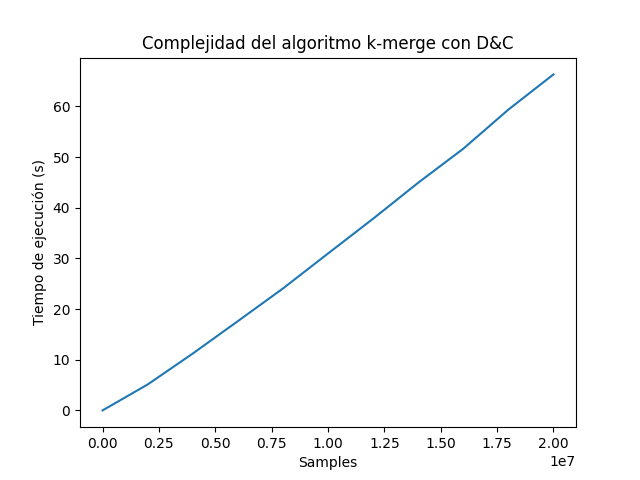
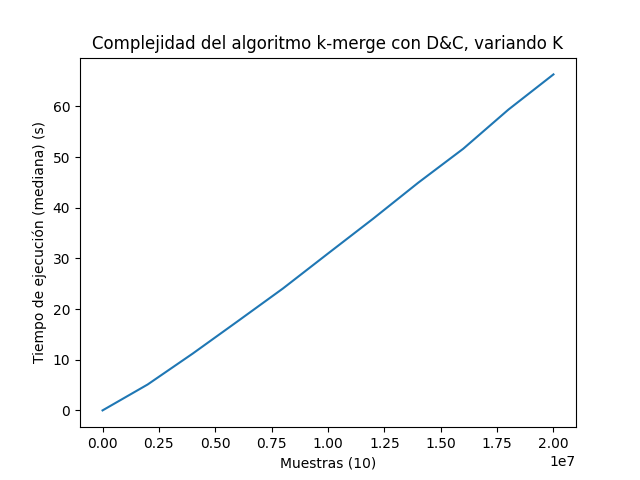
Improve the graphics and created config file

Changed region(s): [[0.1562, 0.0625, 0.875, 0.125], [0.0312, 0.25, 0.0938, 0.75], [0.4375, 0.9375, 0.5938, 1.0]]

diff --git a/simulator.py b/simulator.py
@@ -12,7 +12,7 @@ def generate_sample_array(K, h):
     Crea una matriz de ejemplo con K arreglos de h elementos aleatorios
     """
     arr = []
-    for _ in range(K): arr.append(sorted(rnd.sample(range(0, 10001), h)))
+    for _ in range(K): arr.append(sorted(rnd.sample(range(0, h+1), h)))
     return arr
 
 def execute_multiple_times(K, h, f, samples):
@@ -58,7 +58,7 @@ def simulate_h_variation(sequence, times, algorithm):
 
     for i in sequence:
         # Hardcodeado para evaluar 1 array de i elementos
-        t = execute_multiple_times(1, i, algorithm, samples=times)
+        t = execute_multiple_times(2, i, algorithm, samples=times)
         print("Finished " + str(i))
         y[str(i)] = t
     
@@ -75,22 +75,23 @@ def do_simulation(sequence, times, algorithm, var):
 
 def main():
 
-    # Definicion de parametros de simulacion
-    start = 1
-    stop = 2*10**7+2
-    step = 2*10**6
-    times = 10
-    algorithm = k_merge_dc
-    var = "K"
+    # Configuracion de la simulacion
+    with open("simconfig.json", "r") as config_file:
+        config = json.load(config_file)
 
     # Guardado de los parametros en el json
-    results["start"] = start
-    results["stop"] = stop
-    results["step"] = step
-    results["times"] = times
-    results["algorithm"] = "k_merge_dc"
-    results["var"] = var   
-    results["results"] = do_simulation(range(start, stop, step), times, algorithm, var)
+    results["start"] = config["start"]
+    results["stop"] = config["stop"]
+    results["step"] = config["step"]
+    results["times"] = config["times"]
+    results["algorithm"] = config["algorithm"]
+    results["var"] = config["var"]   
+    results["results"] = do_simulation(
+        range(config["start"], config["stop"], config["step"]), 
+        config["times"], 
+        eval(config["algorithm"]),
+        config["var"]  
+        )
 
     # Stringificacion del json
     json_dump_results = json.dumps(results)

diff --git a/complexity-check.py b/complexity-check.py
@@ -28,8 +28,8 @@ def plot_execution_time(results, title, filepath):
 
 
     plt.plot(x, y)
-    plt.xlabel("Samples")
-    plt.ylabel("Tiempo de ejecución (s)")
+    plt.xlabel(f"Muestras ({results['times']})")
+    plt.ylabel("Tiempo de ejecución (mediana) (s)")
     plt.title(title)
 
     save_plot(get_filename(filepath), "plot")
@@ -62,6 +62,13 @@ def save_plot(dirname, plotname):
     
     plt.savefig(f'./plots/{dirname}/{plotname}')
 
+def stringify_algorithm(algorithm):
+    if algorithm == 'k_merge_dc':
+        return "D&C"
+    elif algorithm == 'k_merge_heap':
+        return "Heaps"
+    else:
+        return "??"
     
 
 def main():
@@ -72,8 +79,8 @@ def main():
         results = json.load(json_file)
 
     # Ploteo
-    plot_execution_time(results, "Complejidad del algoritmo k-merge con D&C", filepath)
-    plot_diff_time(results, "Complejidad del algoritmo k-merge con D&C (diffs)", filepath)
+    plot_execution_time(results, f"Complejidad del algoritmo k-merge con {stringify_algorithm(results['algorithm'])}, variando {results['var']}", filepath)
+    plot_diff_time(results, f"Complejidad del algoritmo k-merge con {stringify_algorithm(results['algorithm'])} (diffs), variando {results['var']}", filepath)
     #plot_execution_time(results, "Complejidad del algoritmo k-merge con heap")
 
 main()

diff --git a/README.md b/README.md
@@ -33,7 +33,7 @@ intercalados ordenadamente, tal cual se realiza en mergesort.
     
     Por ultimo, el problema indica que la junta de los subproblemas debe realizar mediante un algoritmo de intercalamiento, como el utilizado en mergesort. Esta junta (en mergesort) es O(n), y en este caso seria de manera similar. Sabiendo que n = K * h, el costo de juntar las subsoluciones tambien sera de O(n).
     
-    Con esto en mente, nuestra ecuacion de recurrencia quedaria de la siguiente manera: T(n) = 2 * T(K/2) + O(n), y, por el Teorema Maestro, podemos afirmar que la complejidad del algoritmo propuesto es de O(n * log(K))
+    Con esto en mente, nuestra ecuacion de recurrencia quedaria de la siguiente manera: T(n) = 2 * T(K/2) + O(n), y, por el Teorema Maestro, podemos afirmar que la complejidad del algoritmo propuesto es de O(n * log2(K))
 
 
 ---
@@ -55,7 +55,7 @@ intercalados ordenadamente, tal cual se realiza en mergesort.
 
     Hemos observado que tanto el algoritmo propuesto con merge como el algoritmo de heaps tienen una complejidad temporal de O(n * log(K)), siendo n = K * h.
     
-    ### K-merge con D&C
+    ## K-merge con D&C
     
     Dado que el problema de k-merge presenta dos variables en su contexto (K: cantidad de arreglos ordenados, h: tamaño de esos arreglos), mostrar su desempeño mediante graficos nos obligaria a que estos graficos sean tridimensionales. Sin embargo, la **regla del producto** nos permite asegurarnos que **O(K * h * log(K)) = O(h) * O(K * log(K))**. De poder identificar que partes de cada algoritmo son las que añaden cada una de las complejidades (O(h) y O(K * log(K)), solo necesitariamos un grafico por cada complejidad temporal, para poder probar la complejidad temporal total de cada algoritmo. ¡Y podemos identificarlas! 
     
@@ -63,10 +63,26 @@ intercalados ordenadamente, tal cual se realiza en mergesort.
     
     **O(h)**, por otra parte, es la complejidad temporal de mergear dos arreglos ordenados, dado que inevitablemente se deberan recorrer ambos arreglos de inicio a fin para realizar el intercalado. El costo temporal de este merge crece linealmente respecto de h.
     
-    *"Pero alumnos, este es un solo algoritmo. No podemos correr la parte de O(h) por un lado y la parte de O(K * log(K))" por otro lado"*. Es cierto que no podemos particionar el algoritmo y evaluarlos por separados. Lo que **si** podemos hacer, es setear una variable con una constante, y evaluar el desempeño del algoritmo cuando la otra variable *varia*. Así, si el tamaño de todos los arreglos fuese de uno (h = 1), seria lo mismo que tener numeros individuales, lo que desembocaria en un Mergesort (O(K * log(K))). Si en cambio siempre tuviesemos 2 arreglos de h elementos (K = 2), entonces el algoritmo solo se encargaria de separarlos del arreglo de arreglos (lo cual es O(1)), y luego deberia mergearlos (lo cual, como ya vimos, es O(h)). *¿Por que h es 2, y no 1?*, si hubiese solo un arreglo ordenado, entonces el algoritmo solo deberia devolver el arreglo, sin hacer merge, pudiendo hacerlo en O(1).
+    *"Pero alumnos, este es un solo algoritmo. No podemos correr la parte de O(h) por un lado y la parte de O(K * log(K))" por otro lado"*. Es cierto que no podemos particionar el algoritmo y evaluarlos por separados. Lo que **si** podemos hacer, es setear una variable con una constante, y evaluar el desempeño del algoritmo cuando la otra variable *varia*. Así, si el tamaño de todos los arreglos fuese de uno (h = 1), seria lo mismo que tener numeros individuales, lo que desembocaria en un Mergesort (O(K * log(K))). Si en cambio siempre tuviesemos 2 arreglos de h elementos (K = 2), entonces el algoritmo solo se encargaria de separarlos del arreglo de arreglos (lo cual es O(1)), y luego deberia mergearlos (lo cual, como ya vimos, es O(h)). *¿Por que h es 2, y no 1?*, si hubiese solo un arreglo ordenado, entonces el algoritmo solo deberia devolver el arreglo, sin hacer merge, pudiendo hacerlo en O(1). Ademas,
     
+        
+    ### Analisis de la parte "mergesort" del algoritmo
+
+    Como se menciono previamente, si h = 1, entonces el algoritmo deberia comportarse de manera semejante a Mergesort. Al realizar mediciones y graficar los costos temporales de correr el algoritmos con determinada muestra (lineal), esperaremos encontraron con un grafico semejante a un n * log2(n).
+
+    El siguiente grafico muestra los resultados de evaluar el algoritmo en una secuencia de 1 a 20.000.000, en intervalos de 2.000.000, donde cada muestra ha sido evaluada 10 veces, y calculado la mediana de los resultados de cada muestra.
+
+    ![D&C var-K plot (1)](/plots/2023-04-22_15-55-58/plot.png "hola")
     
-    
+    Si bien este grafico podria pertenecer a un intervalo de alguna funcion del estilo f(n) = n * log2(n), tambien podria ser un intervalo de una funcion lineal g(n) = n. Esto quiere decir que para generar una muestra mucho mas exacta, debemos realizar simulaciones mucho mas refinadas, implicando esto una secuencia de cantidades mucho mas grandes, mayor repeticion de pruebas para cada cantidad, y, en consecuencia, mucho mas tiempo de ejecucion (simular para obtener estas mediciones ha llevado cerca de una hora).
+
+    Sin embargo, podemos aprovechar las propiedades matematicas de las funciones, y calcular una "derivada" de la muestra. Si la muestra siguiese una proporcion lineal, entonces la diferencia entre los tiempos deberia ser (casi) constante, dado que la derivada de una funcion linear es una funcion constante. Pero si la muestra siguiese efectivamente una proporcion de n * log2(n), entonces la diferencia entre tiempos deberia seguir una proporcion logaritmica, dado que la derivada de n * log2(n) es log2(n) + 1/ln(2) (y podemos ignorar la constante 1/ln(2)).
+
+    ![D&C var-K diff (1)](/plots/2023-04-22_15-55-58/diff.png "hola")
+
+    Podemos observar que, con algunos altibajos, las diferencias entre tiempos siguen una proporcion logaritmica, lo cual nos permite confirmar que esta parte del algoritmo es O(K * log(K))
+
+    ### Analisis de la parte de merge del algoritmo
     
 4. En caso que la complejidad obtenida en el punto 1 no se condiga con la realidad, indicar por qué (qué condición falla). En dicho caso, se requiere llegar a la complejidad correcta (no solamente enunciarla, sino demostrar cuál es).
 5. Indicar cualquier conclusión adicional que les parezca relevante en base a lo analizado.
